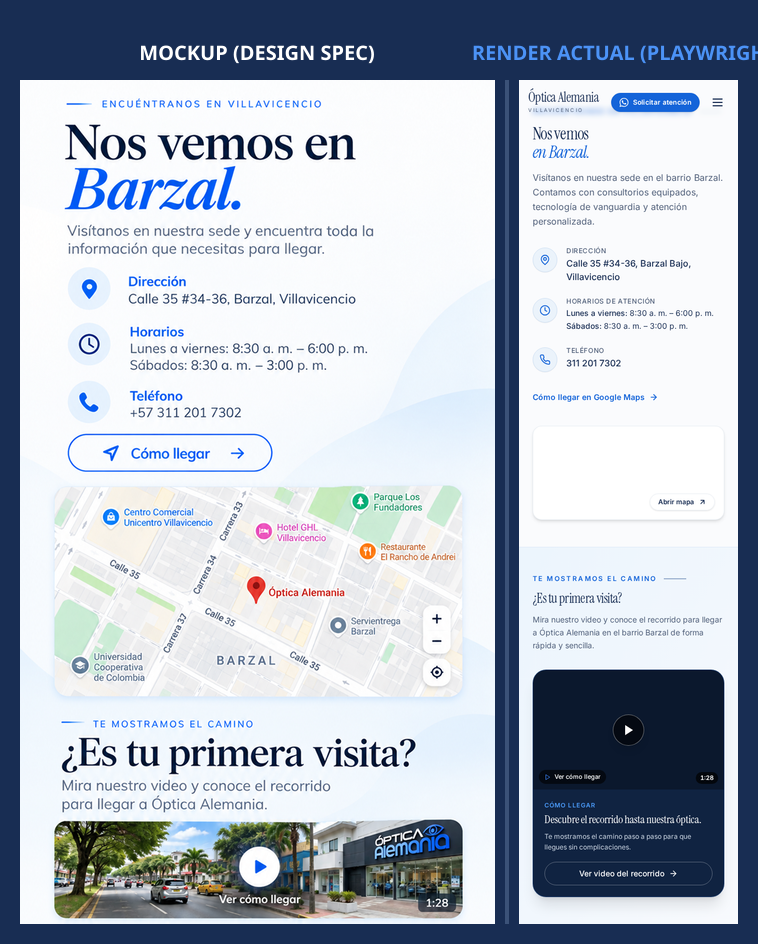
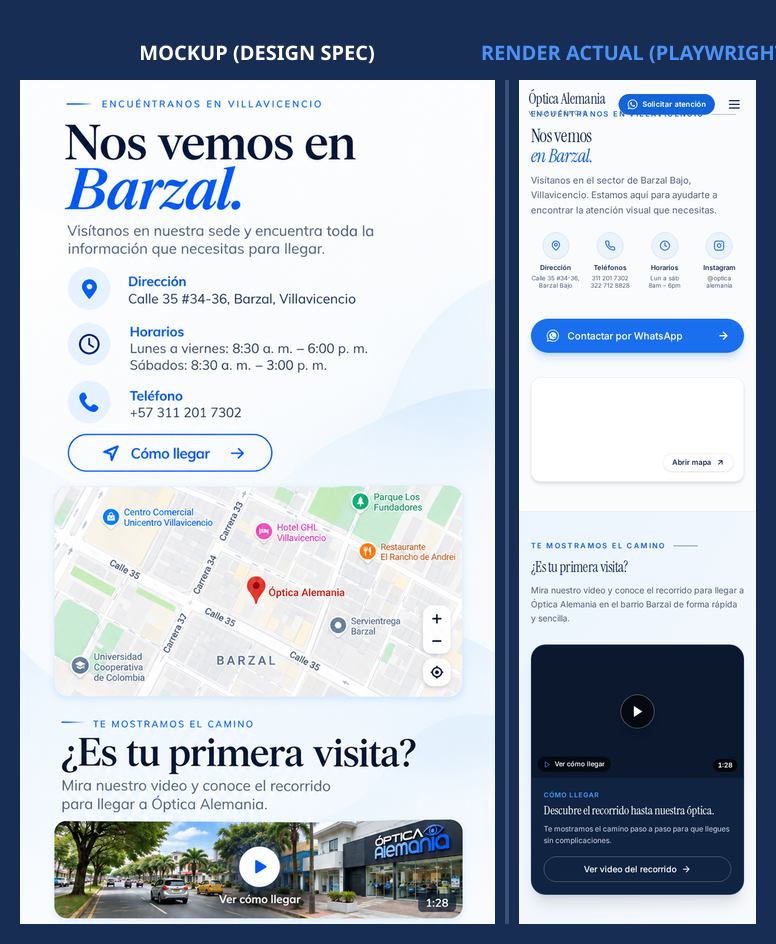
style(contact): adjust contact details layout and add conversion whatsapp button matching mockups

diff --git a/odd/tasks/optica-alemania-contacto.md b/odd/tasks/optica-alemania-contacto.md
@@ -25,3 +25,4 @@ L2: ODD task file inicializado con 5 tareas planificadas. Procediendo con T1 (op
 L3: T1 a T5 completadas exitosamente. Todas las secciones visuales implementadas con estándares de PLAYBOOK.md y responsive en 1440px y 390px.
 L4: Ejecución de suite de certificación Playwright (`pnpm test:contacto` y `pnpm test:nosotros`) certificando: 0 errores de consola, 0 peticiones 404/fallidas y 0 scroll horizontal. Comparativas visuales Sharp side-by-side generadas en `docs/screenshots/contact/`.
 L5: Commit 2ef8b8f consolidando la implementación completa y suites de prueba de la página Contacto.
+L6: Verificación forense y ajuste visual con Playwright contra mockups: se incorporó en ContactLocation.astro el botón principal de conversión 'Contactar por WhatsApp', la cuadrícula responsiva de 4 columnas en mobile para los datos de contacto (Dirección, Teléfonos, Horarios, Instagram), y la sincronización del header en la captura del hero. Certificación 100% limpia.
